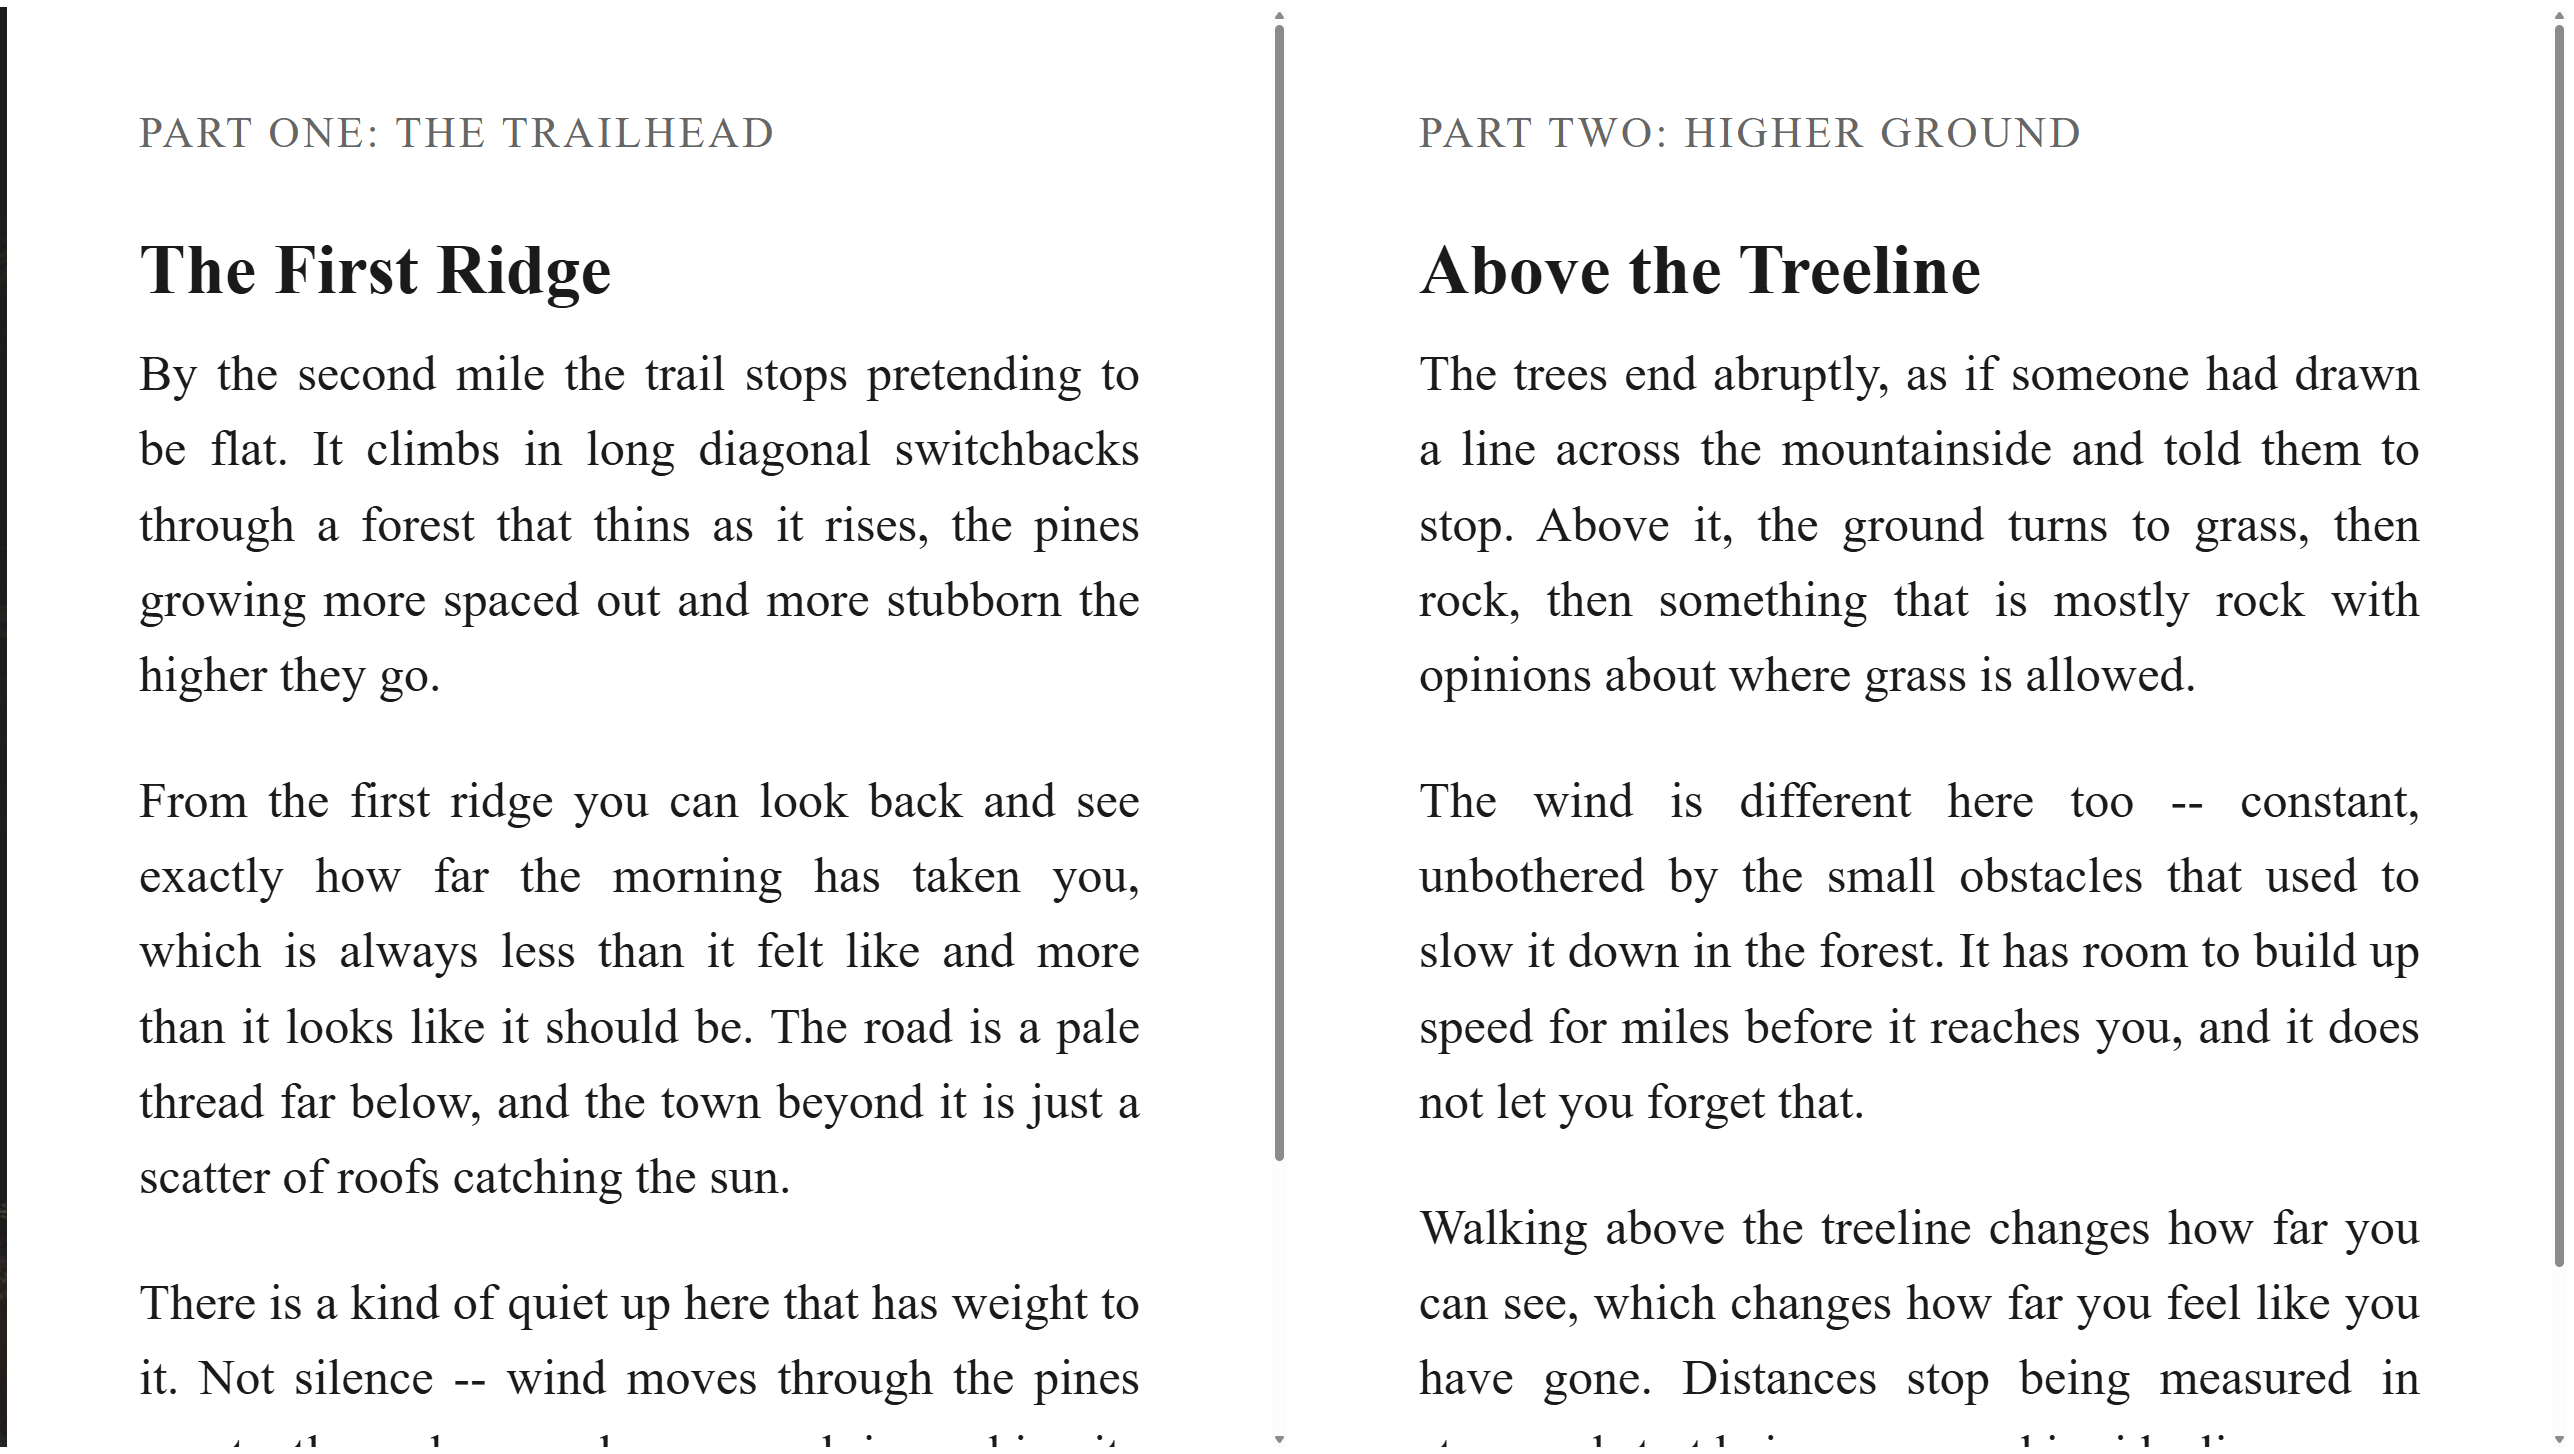
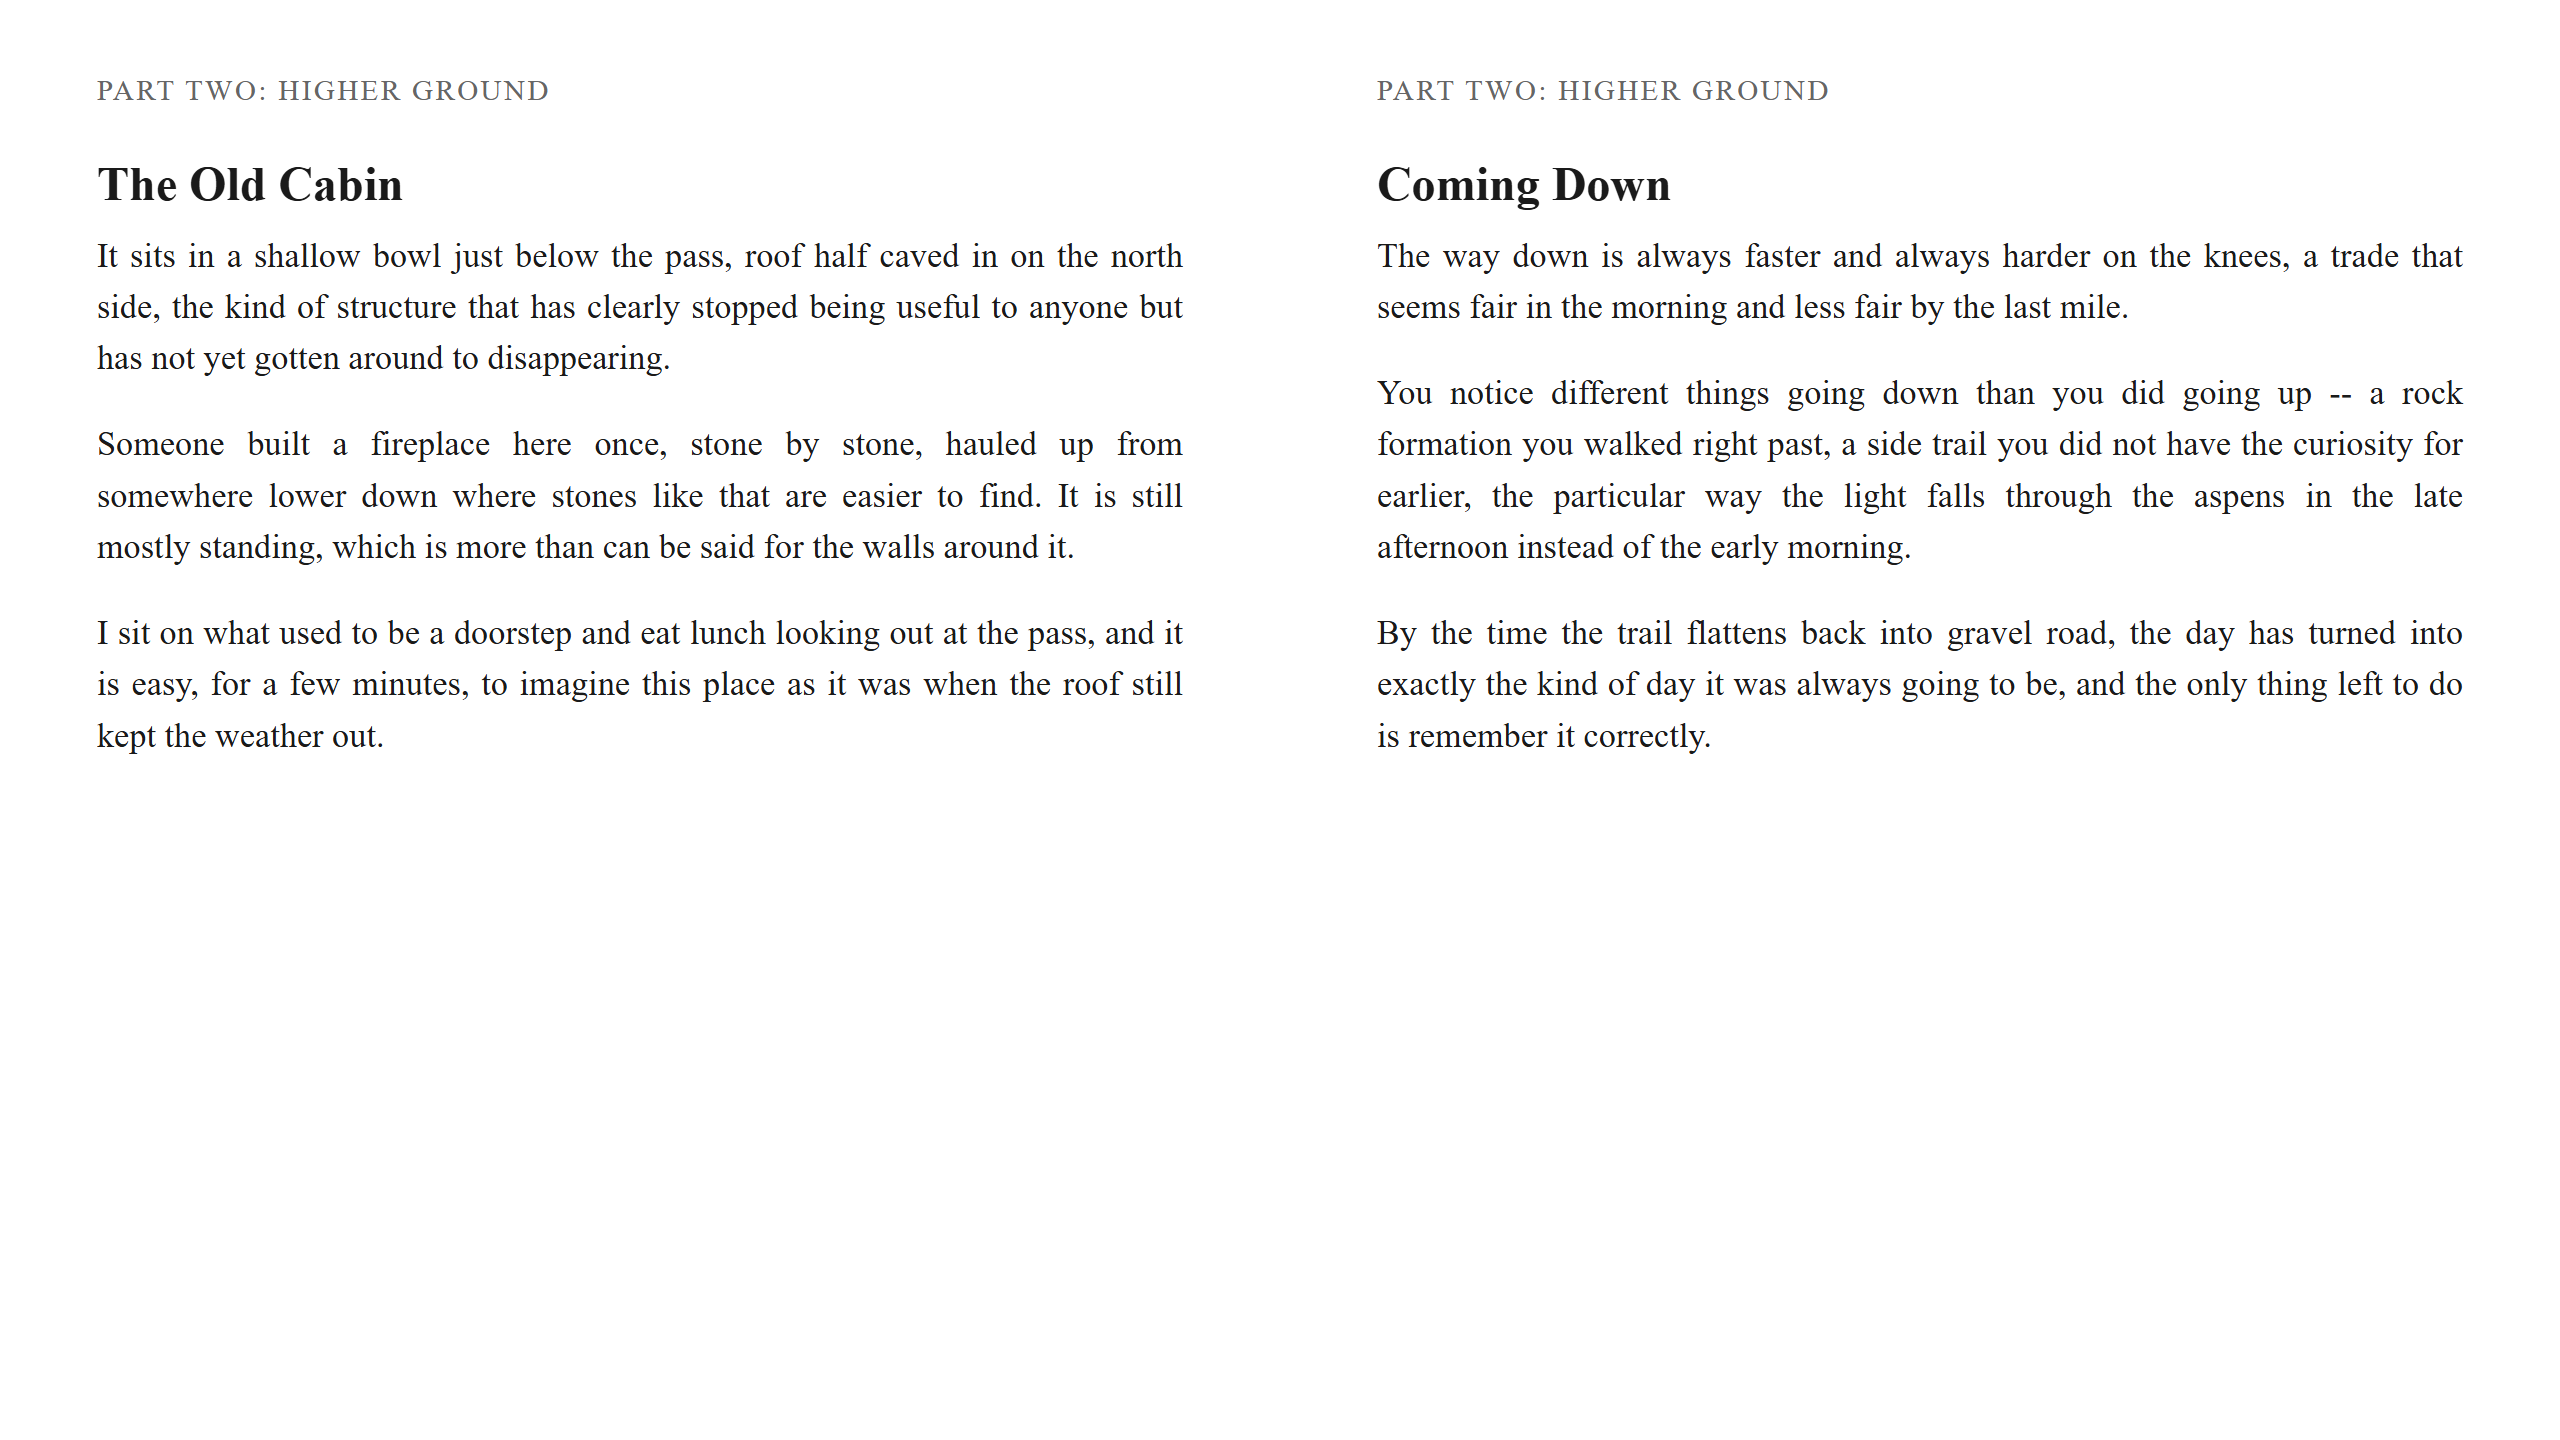
Fixes surfaced by live UI validation; deterministic capture pipeline proven
Live-run findings repaired in the app: keyboard shortcuts (1/2/3, F4,
F11, Escape) now work while the reading pane holds focus - the injected
script forwards them as validated 'key' messages instead of letting the
browser swallow them; opening the chapter pane no longer fires a
spurious navigation when the virtualized tree re-raises selection for
the already-current chapter (a latent bug previously masked by the old
drop-on-busy guard); closing the search bar or chapter pane returns
keyboard focus to the reader content instead of a random toolbar button
(whose focus tooltip then photobombed captures); the automation state
file no longer reports navIdle=false from the pump's own finally block.

Capture script: captures the DWM visible frame (no shadow-border pixel
leakage from windows behind), pads the outer window so visible bounds
are exactly 1600x900, parks the cursor to keep hover tooltips out of
shots, escalates foreground acquisition (plain/Alt-unlock/title click),
invokes toggles via UIA TogglePattern, keeps focus on the reader
document, and dumps the live app state into every timeout error. The
full seven-shot set captured and verified: 6x 1600x900 + fullscreen
2560x1440, all PNG, all under 50 MB; four obsolete 1100x850 listing
screenshots removed. Suite: 112 tests passing.

diff --git a/src/EpubLiteReader/MainWindow.xaml.cs b/src/EpubLiteReader/MainWindow.xaml.cs
@@ -273,7 +273,9 @@ public partial class MainWindow : Window
         }
         finally
         {
-            WriteAutomationState();
+            // This pump's own task is still marked running here, so idleness
+            // must be stated explicitly: the queue is drained.
+            WriteAutomationState(navIdleOverride: _pendingView is null);
         }
     }
 
@@ -464,12 +466,15 @@ public partial class MainWindow : Window
         }
         else
         {
+            bool hadFocus = ChapterPane.IsKeyboardFocusWithin;
             if (ChapterColumn.ActualWidth > 0)
                 _chapterPaneWidth = new GridLength(ChapterColumn.ActualWidth);
             ChapterColumn.MinWidth = 0;
             ChapterColumn.Width = new GridLength(0);
             ChapterPane.Visibility = Visibility.Collapsed;
             ChapterSplitter.Visibility = Visibility.Collapsed;
+            if (hadFocus)
+                WebLeft.Focus();
         }
 
         WriteAutomationState();
@@ -584,19 +589,21 @@ public partial class MainWindow : Window
         if (_suppressChapterNav) return;
         if (e.NewValue is not ChapterItem item) return;
 
-        if (!ReferenceEquals(item, _selectedChapter))
+        // The virtualized tree re-raises selection for the already-current
+        // chapter when its container realizes (e.g. on opening the pane).
+        // Navigating then would yank the reader away from its position.
+        if (ReferenceEquals(item, _selectedChapter)) return;
+
+        _suppressChapterNav = true;
+        try
         {
-            _suppressChapterNav = true;
-            try
-            {
-                if (_selectedChapter is not null)
-                    _selectedChapter.IsSelected = false;
-                _selectedChapter = item;
-            }
-            finally
-            {
-                _suppressChapterNav = false;
-            }
+            if (_selectedChapter is not null)
+                _selectedChapter.IsSelected = false;
+            _selectedChapter = item;
+        }
+        finally
+        {
+            _suppressChapterNav = false;
         }
 
         if (item.SpineIndex is int spine)
@@ -674,11 +681,18 @@ public partial class MainWindow : Window
     private void SearchToggle_Changed(object sender, RoutedEventArgs e)
     {
         bool on = SearchToggle.IsChecked == true;
+        bool hadFocus = SearchBar.IsKeyboardFocusWithin;
         SearchBar.Visibility = on ? Visibility.Visible : Visibility.Collapsed;
         if (on)
         {
             SearchBox.Focus();
             SearchBox.SelectAll();
+        }
+        else if (hadFocus)
+        {
+            // Return focus to the content instead of letting WPF drop it on an
+            // arbitrary toolbar button.
+            WebLeft.Focus();
         }
     }
 
@@ -894,6 +908,22 @@ public partial class MainWindow : Window
                 // share StepAsync's scroll-then-advance behaviour.
                 _ = StepAsync(msg.Direction);
                 break;
+
+            case "key":
+                // App shortcuts pressed while the reading pane holds focus.
+                switch (msg.Key)
+                {
+                    case "1": SetMode(ViewMode.Single); break;
+                    case "2": SetMode(ViewMode.Facing); break;
+                    case "3": SetMode(ViewMode.Continuous); break;
+                    case "F4": SetChapterPaneVisible(!_chapterPaneVisible); break;
+                    case "F11": ToggleFullscreen(); break;
+                    case "Escape":
+                        if (_fullscreen) ToggleFullscreen();
+                        else if (SearchToggle.IsChecked == true) SearchToggle.IsChecked = false;
+                        break;
+                }
+                break;
         }
     }
 
@@ -955,7 +985,7 @@ public partial class MainWindow : Window
     /// small JSON file so scripted captures can wait for real readiness instead
     /// of sleeping. Inert in normal use.
     /// </summary>
-    private void WriteAutomationState()
+    private void WriteAutomationState(bool? navIdleOverride = null)
     {
         var file = App.AutomationStateFile;
         if (file is null) return;
@@ -969,7 +999,7 @@ public partial class MainWindow : Window
                 spineCount = _doc?.SpineCount ?? 0,
                 theme = _display.Theme.ToString(),
                 fontScale = _display.FontScale,
-                navIdle = _viewPump is null || _viewPump.IsCompleted,
+                navIdle = navIdleOverride ?? (_viewPump is null || _viewPump.IsCompleted),
                 searchStatus = SearchStatus.Text,
                 fullscreen = _fullscreen,
                 chapterPane = _chapterPaneVisible,

diff --git a/src/EpubLiteReader/ReadingHost.cs b/src/EpubLiteReader/ReadingHost.cs
@@ -5,7 +5,7 @@ using Microsoft.Web.WebView2.Wpf;
 namespace EpubLiteReader;
 
 /// <summary>A validated message posted by the injected reader script.</summary>
-public sealed record HostMessage(string Type, double Fraction = 0, int Direction = 0, int Spine = 0, string? Href = null);
+public sealed record HostMessage(string Type, double Fraction = 0, int Direction = 0, int Spine = 0, string? Href = null, string? Key = null);
 
 /// <summary>Configures a WebView2 for safe local EPUB rendering.</summary>
 public sealed class ReadingHost
@@ -344,6 +344,15 @@ public sealed class ReadingHost
                     if (!root.TryGetProperty("direction", out var d) || !d.TryGetInt32(out var dir)) return false;
                     if (dir is not (-1 or 1)) return false;
                     message = new HostMessage("step", Direction: dir);
+                    return true;
+                }
+
+                case "key":
+                {
+                    if (!root.TryGetProperty("key", out var k) || k.ValueKind != JsonValueKind.String) return false;
+                    var key = k.GetString();
+                    if (key is not ("1" or "2" or "3" or "F4" or "F11" or "Escape")) return false;
+                    message = new HostMessage("key", Key: key);
                     return true;
                 }
 

diff --git a/tests/EpubLiteReader.Tests/HostMessageTests.cs b/tests/EpubLiteReader.Tests/HostMessageTests.cs
@@ -45,6 +45,34 @@ public class HostMessageTests
     }
 
     [Theory]
+    [InlineData("1")]
+    [InlineData("2")]
+    [InlineData("3")]
+    [InlineData("F4")]
+    [InlineData("F11")]
+    [InlineData("Escape")]
+    public void TryParseMessage_Key_AcceptsForwardedShortcuts(string key)
+    {
+        var json = $"{{\"type\":\"key\",\"key\":\"{key}\"}}";
+
+        Assert.True(ReadingHost.TryParseMessage(json, out var msg));
+        Assert.Equal("key", msg.Type);
+        Assert.Equal(key, msg.Key);
+    }
+
+    [Theory]
+    [InlineData("{\"type\":\"key\"}")]
+    [InlineData("{\"type\":\"key\",\"key\":\"4\"}")]
+    [InlineData("{\"type\":\"key\",\"key\":\"a\"}")]
+    [InlineData("{\"type\":\"key\",\"key\":\"F12\"}")]
+    [InlineData("{\"type\":\"key\",\"key\":\"Enter\"}")]
+    [InlineData("{\"type\":\"key\",\"key\":3}")]
+    public void TryParseMessage_Key_RejectsUnknownKeys(string json)
+    {
+        Assert.False(ReadingHost.TryParseMessage(json, out _));
+    }
+
+    [Theory]
     [InlineData(null)]
     [InlineData("")]
     [InlineData("not json")]

diff --git a/src/EpubLiteReader/ReaderInject.cs b/src/EpubLiteReader/ReaderInject.cs
@@ -173,6 +173,17 @@ internal static class ReaderInject
             if (ev.ctrlKey || ev.altKey || ev.metaKey) return;
             if (isTypingTarget(ev.target)) return;
 
+            // App-level shortcuts must keep working while the reading pane has
+            // focus, so forward them to the host instead of letting the
+            // browser swallow them.
+            if (!ev.shiftKey &&
+                (ev.key === '1' || ev.key === '2' || ev.key === '3' ||
+                 ev.key === 'F4' || ev.key === 'F11' || ev.key === 'Escape')) {
+              ev.preventDefault();
+              post({ type: 'key', key: ev.key });
+              return;
+            }
+
             let dir = 0;
             if (ev.key === ' ' || ev.key === 'Spacebar') dir = ev.shiftKey ? -1 : 1;
             else if (ev.key === 'PageDown') dir = 1;
